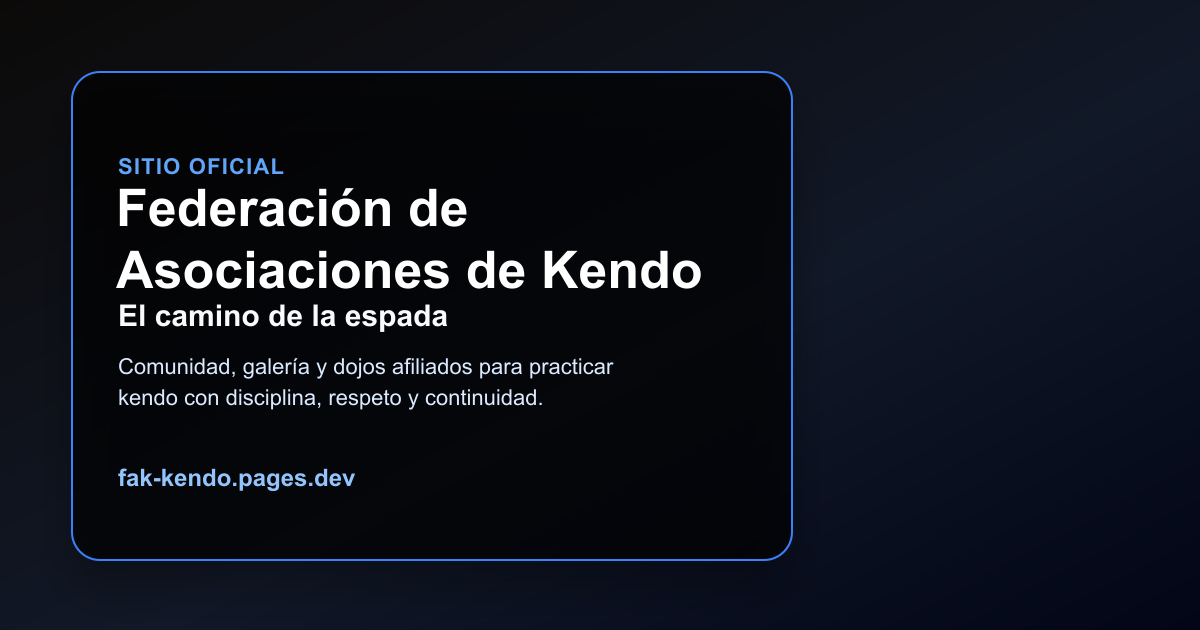
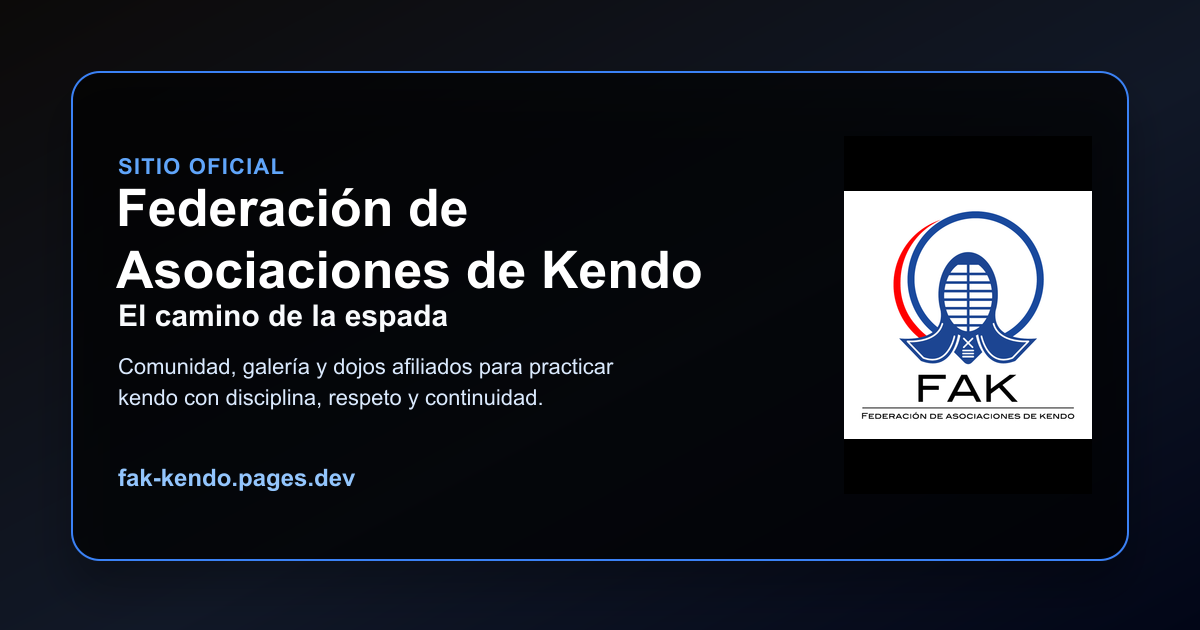
Use default social image and update social SVG
Replace social card images and adjust SVG layout: widened the dark panel, added a logo image to the SVG, and updated the PNG. Update SEO image metadata to always use the configured default image (absolute URL) and default alt/width/height/type values instead of per-route values.

Changed region(s): [[0.6475, 0.0905, 0.9558, 0.7841], [0.6475, 0.8746, 0.925, 0.9048]]

diff --git a/src/app/config/seo.ts b/src/app/config/seo.ts
@@ -349,11 +349,11 @@ function getRouteImageUrl(meta: RouteMeta) {
 
 function getRouteImageMetadata(meta: RouteMeta) {
   return {
-    url: getRouteImageUrl(meta),
-    alt: meta.imageAlt || DEFAULT_SOCIAL_IMAGE_ALT,
-    width: meta.imageWidth || DEFAULT_SOCIAL_IMAGE_WIDTH,
-    height: meta.imageHeight || DEFAULT_SOCIAL_IMAGE_HEIGHT,
-    type: meta.imageType || "image/png",
+    url: absoluteUrl(DATA.defaultImage),
+    alt: DEFAULT_SOCIAL_IMAGE_ALT,
+    width: DEFAULT_SOCIAL_IMAGE_WIDTH,
+    height: DEFAULT_SOCIAL_IMAGE_HEIGHT,
+    type: "image/png",
   };
 }
 
